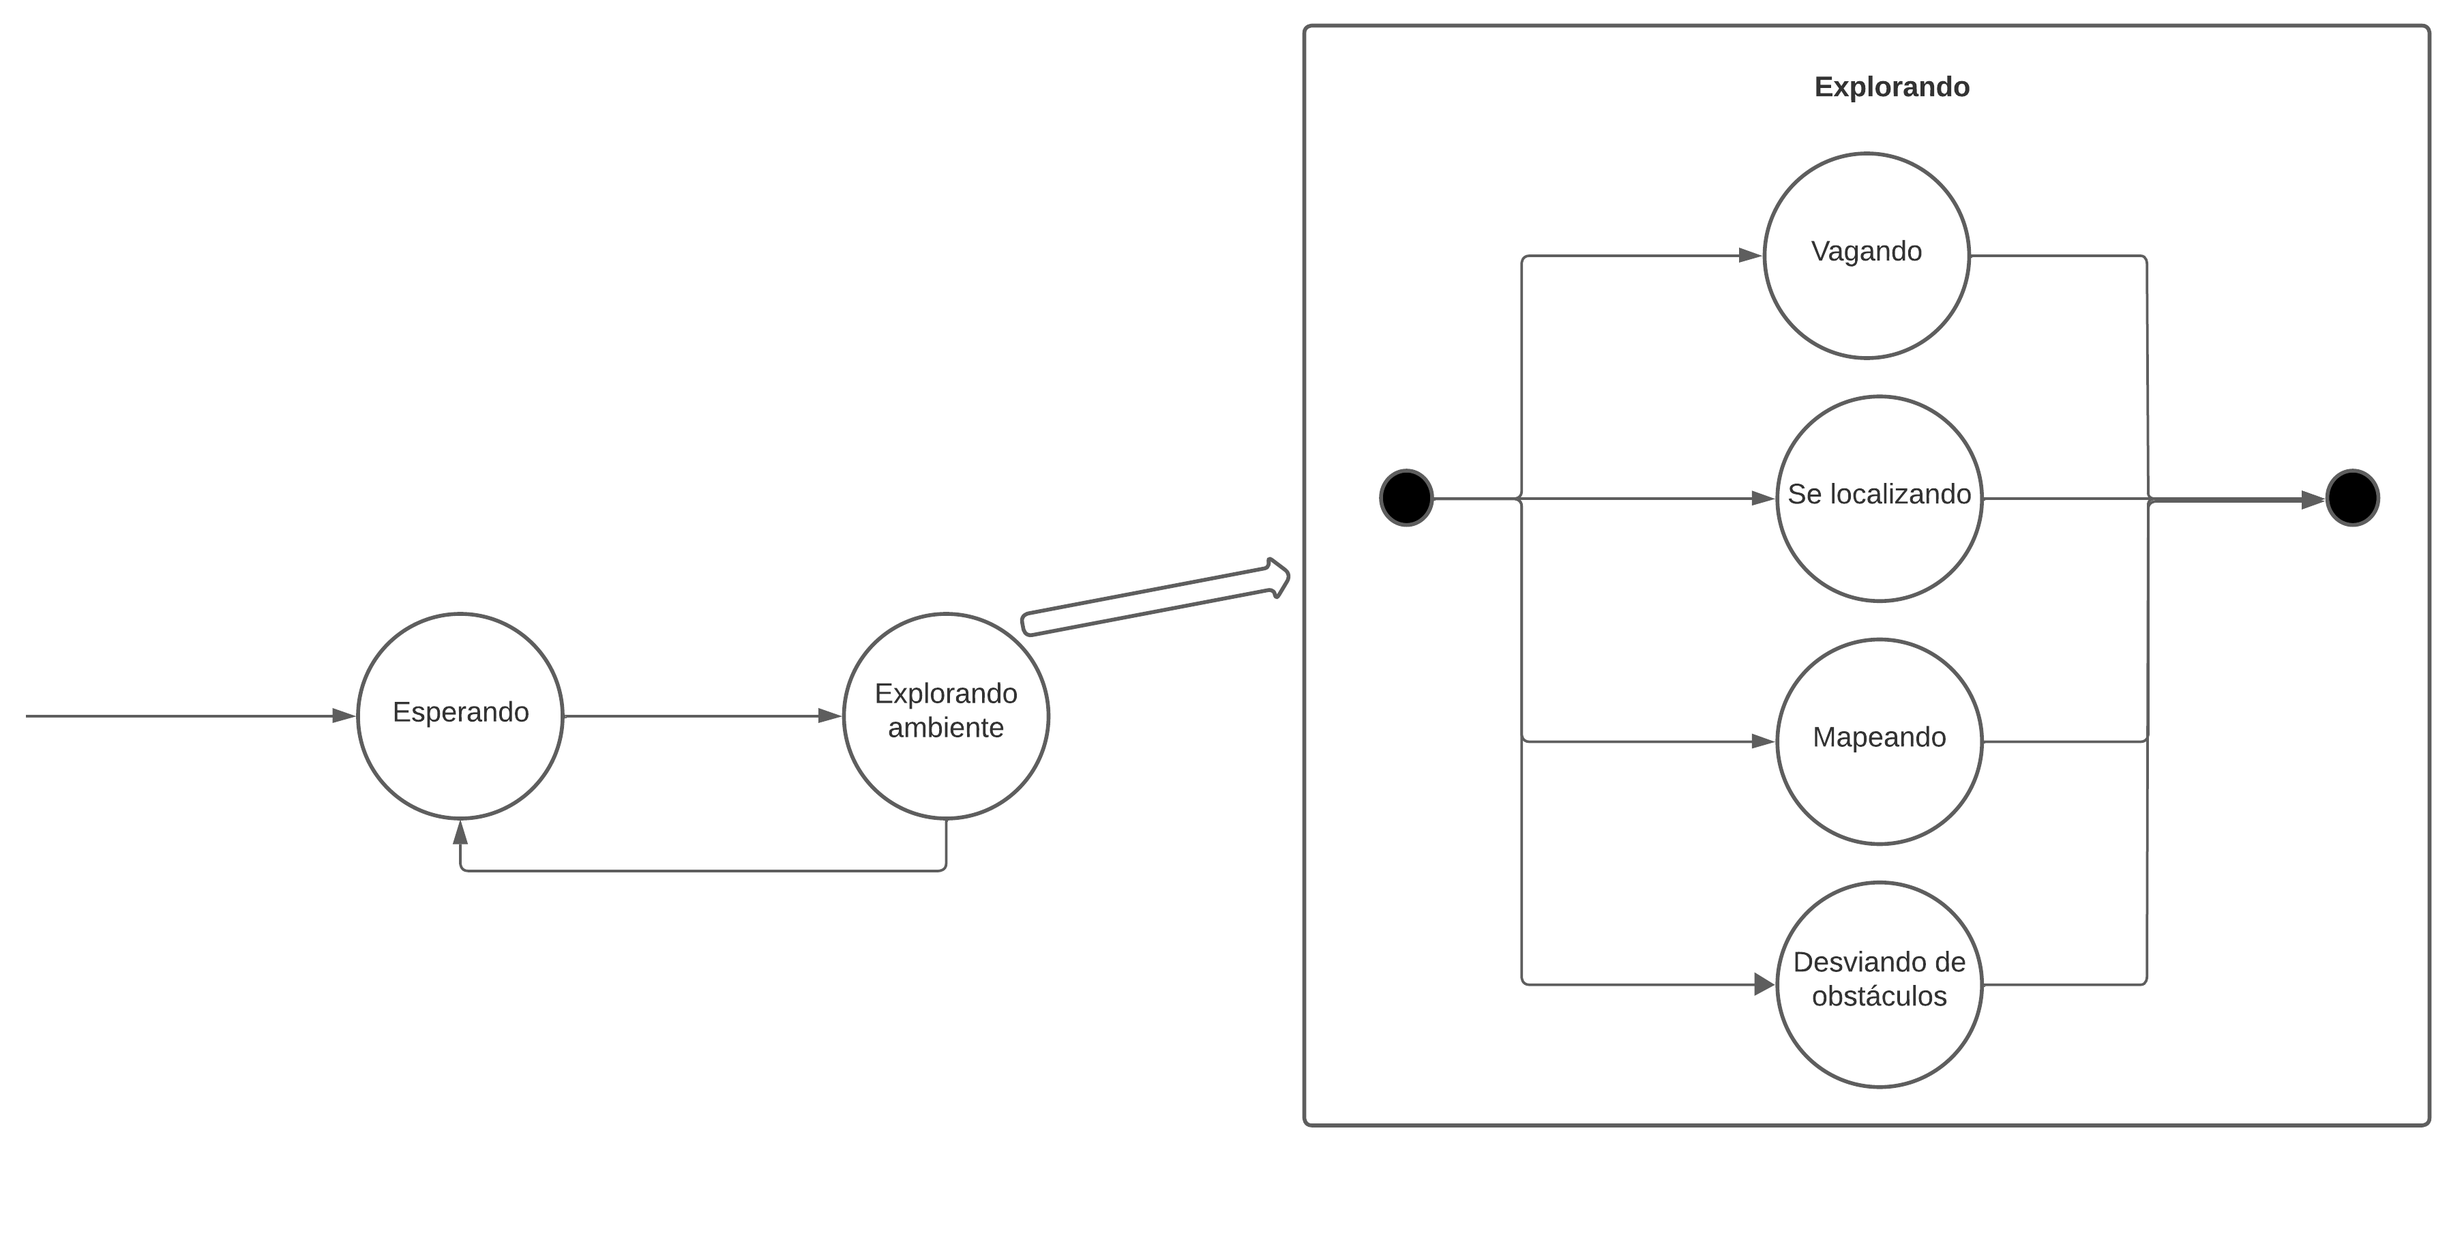
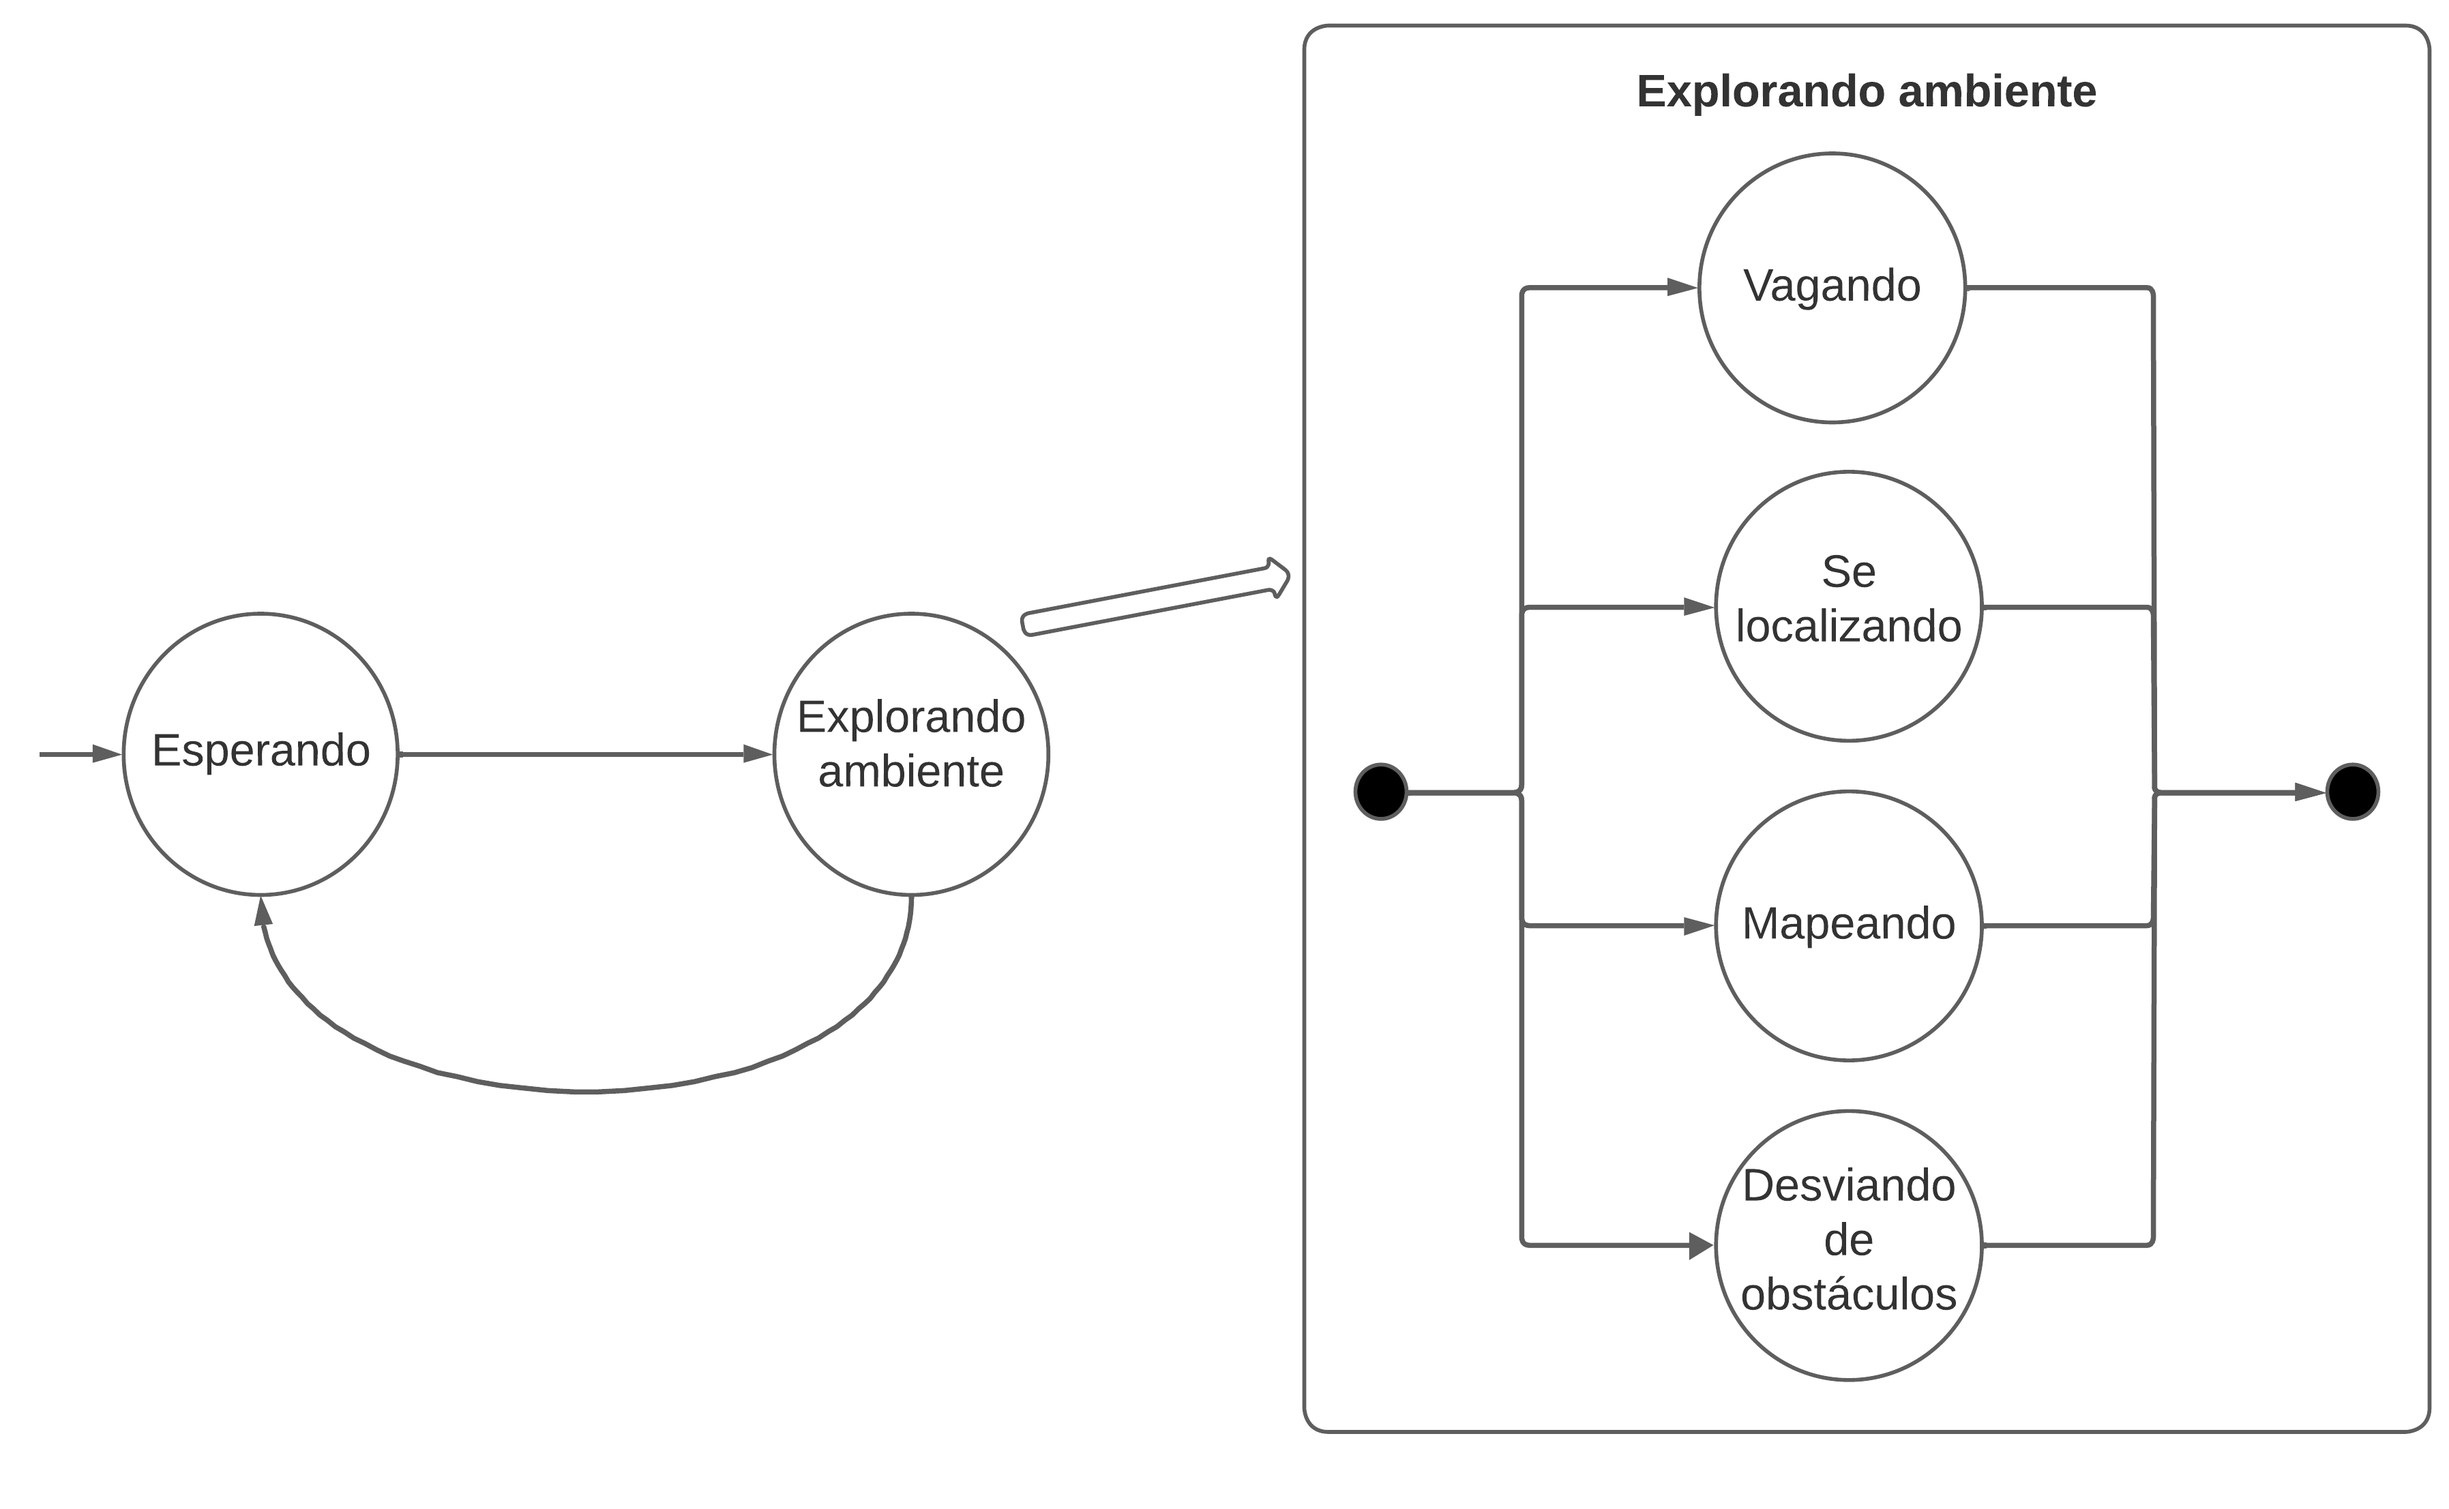
ajustes menores conforme o professor fábio

diff --git a/TEXTO-TrabalhosCorrelatos.tex b/TEXTO-TrabalhosCorrelatos.tex
@@ -17,7 +17,7 @@ A base do robô Herbert contém a alimentação de energia própria e um computa
 
 Para o controle lógico do robô através da arquitetura de subsunção, foram utilizadas placas com microprocessadores CMOS de 8 bits  que compartilham entre si apenas energia. Para integrar o reconhecimento lógico de objetos com o scanner, foi combinado com o sensor uma árvore de processadores de visão orientada por linha. 
 
-O robô Herbert conseguiu ter um consumo energético baixo para a sua época por ser estruturado por componentes CMOS, além de ter uma resposta mais rápida aos obstáculos por conta do sensor infravermelho que opera na velocidade da luz e possibilita uma varredura do ambiente em 360 graus. Ademais, sua estrutura foi arranjada de uma maneira que todos seus subsistemas - como as placas de circuitos -  conseguem ser removidas, ajustadas e devolvidas ao corpo do robô com fácil acesso. 
+O robô Herbert conseguiu ter um consumo energético baixo para a sua época por ser estruturado por componentes CMOS, além de ter uma resposta mais rápida aos obstáculos por conta do sensor infravermelho que possibilita uma varredura do ambiente em 360 graus. Ademais, sua estrutura foi arranjada de uma maneira que todos seus subsistemas - como as placas de circuitos -  conseguem ser removidas, ajustadas e devolvidas ao corpo do robô com fácil acesso. 
 
 Por ser um projeto realizado no fim dos anos 80, os equipamentos utilizados e as capacidades do robô são limitantes. Apesar de utilizarem processadores com menor custo energético, o dispositivo consegue transitar e realizar suas tarefas pelo ambiente por apenas uma hora. 
 
@@ -56,7 +56,7 @@ No contexto apenas da navegação autônoma, muitas abordagens podem ser utiliza
     \label{fig:turtlebotSLAM}
 \end{figure}
 
-As informações do ambiente foram capturadas por um sensor LiDaR e utilizadas, em conjunto com a odometria  (informação de deslocamento a partir das revoluções das rodas) do robô, no processo SLAM. A fim de melhorar a experiência com a abordagem SLAM, foi utilizado o algoritmo AMCL (Localização Monte Carlo Adaptativa), sendo uma a versão aprimorada do algoritmo original Localização Monte Carlo. Além disso, o ROS é utilizado como o intermediador entre o sistema, os sensores e o controle lógico (no qual é executado o SLAM adaptado) do Turtlebot3 Burger. 
+As informações do ambiente foram capturadas por um sensor LiDaR e utilizadas, em conjunto com a odometria  (informação de deslocamento a partir das revoluções das rodas) do robô, no processo SLAM. A fim de melhorar a experiência com a abordagem SLAM, foi utilizado o algoritmo AMCL (\textit{Adaptive Monte Carlo Localization}), sendo uma a versão aprimorada do algoritmo original Localização Monte Carlo. Além disso, o ROS é utilizado como o intermediador entre o sistema, os sensores e o controle lógico (no qual é executado o SLAM adaptado) do Turtlebot3 Burger. 
 
 Visando testar facilmente a solução proposta em comparação com o mapeamento e navegação comum, foi usado o simulador Gazebo. Entretanto, os dois métodos foram testados no mundo real também para assegurar resultados condizentes com a realidade. Com esses experimentos foi apontado que o uso do SLAM aperfeiçoado com o algoritmo de Localização Adaptativa de Monte Carlo tornou a navegação mais resiliente e com maior acurácia.
 
@@ -65,7 +65,7 @@ Visando testar facilmente a solução proposta em comparação com o mapeamento 
 
 O desenvolvimento de um robô autônomo móvel, em muitos casos, pode incluir a implementação de recursos que tornam o robô mais custoso, em questão de processamento e preço. Em \citet{dpoom}, seu principal objetivo é diminuir o custo computacional e monetário dos robôs autônomos móveis. Para reduzir o valor da estrutura física do robô, foi utilizada uma câmera RGB-D (capaz de capturar a profundidade dos itens, além da imagem comum colorida) para a percepção do ambiente, ao invés do sensor LiDaR, comumente utilizado e com maior custo. 
 
-Além disso, foi adicionada uma adaptação, menos custosa computacionalmente, do algoritmo clássico de aprendizado por reforço profundo, para evitar obstáculos ao longo da locomoção do seu robô DPoom. Em conjunto, \citet{dpoom} implementou a criação de mapas e posicionamento em tempo real com algoritmo de SLAM integrado a câmera RBG-D. Com isso, foi possível retirar a necessidade da utilização de uma GPU e manter o desempenho ideal em tempo real, usufruindo apenas de uma placa-mãe de baixo custo.
+Além disso, foi adicionada uma adaptação, menos custosa computacionalmente, do algoritmo clássico de aprendizado por reforço profundo, para evitar obstáculos ao longo da locomoção do seu robô DPoom. Em conjunto, \citet{dpoom} implementou a criação de mapas e posicionamento em tempo real com algoritmo de SLAM integrado a câmera RBG-D. Com isso, foi possível retirar a necessidade da utilização de uma GPU (\textit{Graphic Processing Unit}) e manter o desempenho ideal em tempo real, usufruindo apenas de uma placa-mãe de baixo custo.
 
 A fim de validar seu sistema desenvolvido, \citet{dpoom} integrou todas as funcionalidades com ROS e testou, primeiramente, no simulador Gazebo com uma variação de dez ambientes domésticos estáticos e dinâmicos. O  DPoom (Figura~\ref{fig:dpoom}) também foi testado em ambientes internos reais, com humanos se movimentando ao longo do meio, permitindo validar a interação do robô com as pessoas.
 
@@ -77,7 +77,7 @@ A fim de validar seu sistema desenvolvido, \citet{dpoom} integrou todas as funci
     \label{fig:dpoom}
 \end{figure}
 
-Os principais resultados encontrados em \citet{dpoom} são i) o tempo de execução reduzido,  de apenas 18Hz, para o algoritmo de navegação sem colisão com obstáculos; ii) a taxa baixa de 15\% de colisão; iii) a navegação bem sucedida em ambientes lotados.
+Os principais resultados encontrados em \citet{dpoom} são i) a taxa de operação reduzida,  de apenas 18Hz, para o algoritmo de navegação sem colisão com obstáculos; ii) a taxa baixa de 15\% de colisão; iii) a navegação bem sucedida em ambientes lotados.
 
 \section{Robô Autônomo Móvel com LiDaR e RGB-D}
 Em \citet{lidarRGBD},  é proposto um robô autônomo móvel (Figura~\ref{fig:lidarRGBD}) com maior percepção do ambiente, a fim de obter uma navegação mais eficiente ao evitar obstáculos dinâmicos e ser mais seguro a humanos e seus pertences. Para isso, foram implementados, em conjunto, um sensor LiDaR e uma câmera RGB-D para a percepção do ambiente. 

diff --git a/TEXTO-RevisaoBibliografica.tex b/TEXTO-RevisaoBibliografica.tex
@@ -92,7 +92,7 @@ A percepção do ambiente e a execução das tarefas pelo robô dependem signifi
 
 Os sensores são responsáveis em permitir que o robô compreenda o ambiente que está inserido através das grandezas físicas coletadas (entradas) e transformadas em sinais elétricos que então são processados em uma informação útil (saída). Apesar de comumente os sensores obterem entradas que não são as em foco (entradas espúrias), são utilizados diversos mecanismos de filtrar entradas e calibrar estes instrumentos para seu melhor desempenho. 
 
-O mundo dos sensores  é versátil e variado, dentre os existentes para a percepção de objetos se tem o sensor LiDaR (Light Detection and Ranging), o qual emite uma onda ótica e captura o tempo para que o reflexo desse feixe de luz retorne \cite{lidarComparative:2021, lidarProgress:2022}. Seu objetivo principal é descobrir a distância entre o corpo que está embutido e os objetos à sua frente \cite{lidarProgress:2022, lidarComparative:2021}. Esse sensor é utilizado em diversas situações, como veículos autônomos, equipamentos médicos precisos e monitoramento, podendo ser mais preciso do que sensores que utilizam ondas sonoras \cite{lidarProgress:2022, lidarDetection:2019}.
+O mundo dos sensores  é versátil e variado, dentre os existentes para a percepção de objetos se tem o sensor LiDaR (\textit{Light Detection and Ranging}), o qual emite uma onda ótica e captura o tempo para que o reflexo desse feixe de luz retorne \cite{lidarComparative:2021, lidarProgress:2022}. Seu objetivo principal é descobrir a distância entre o corpo que está embutido e os objetos à sua frente \cite{lidarProgress:2022, lidarComparative:2021}. Esse sensor é utilizado em diversas situações, como veículos autônomos, equipamentos médicos precisos e monitoramento, podendo ser mais preciso do que sensores que utilizam ondas sonoras \cite{lidarProgress:2022, lidarDetection:2019}.
 
 Os atuadores, por sua vez, possibilitam que as tarefas planejadas pelo sistema se concretizem a partir do inferimento de grandezas físicas em elementos mecânicos presentes no corpo do robô. Este comportamento pode ser visualizado quando o controle lógico de um robô móvel autônomo decide se virar para direita e pelos atuadores, os motores necessários são acionados para realizar a rotação das rodas.  
 

diff --git a/TEXTO-Desenvolvimento.tex b/TEXTO-Desenvolvimento.tex
@@ -1,6 +1,6 @@
 Neste capítulo são apresentados a proposta do presente trabalho, as especificações e modelagem levantadas para a solução, além dos detalhes de desenvolvimento do modelo para o robô AtmosBot.
 
-\section{Proposta de Solução} 
+\section{Proposta de Solução do AtmosBot} 
 
 A partir do que foi explicado anteriormente, se conclui que um robô de serviço doméstico é um sistema complexo que,  para ser desenvolvido, demanda uma abundância de recursos, tempo e profissionais. Assim, surge a necessidade de elaborá-lo de forma modular, se beneficiando de testes simulados para minimizar os recursos financeiros e o tempo despendido. Logo, este trabalho propõe um modelo simulado para a funcionalidade primordial do robô de serviço doméstico: a navegação autônoma. Com isso, foi elaborado um modelo simulado de robô autônomo móvel capaz de navegar, sem interferência humana, por um ambiente interno dinâmico, similar a um domicílio. 
 

diff --git a/TEXTO-Principal.tex b/TEXTO-Principal.tex
@@ -208,7 +208,10 @@
         \item[CMOS]    Complementary Metal-Oxide Semiconductor
         \item[DSR]      Design Science Research
         \item[FPGA]    Field Programmable Gate Array
+        \item[GPU]     Graphic Processing Unit
         \item[IA]      Inteligência Artificial
+        \item[LiDaR]   Light Detection and Range
+        \item[ODE]     Open Dynamics Engine
         \item[RAM]      Random Access Memory
         \item[RGB-D]   Red, Green and Blue - Depth
         \item[ROS]     Robot Operating System
@@ -261,7 +264,7 @@
 \label{cap-trabalhos-relacionados}
 \input{TEXTO-TrabalhosCorrelatos}
 
-\chapter{Desenvolvimento}
+\chapter{Desenvolvimento do AtmosBot}
 \label{cap-desenvolvimento}
 \input{TEXTO-Desenvolvimento}
 
